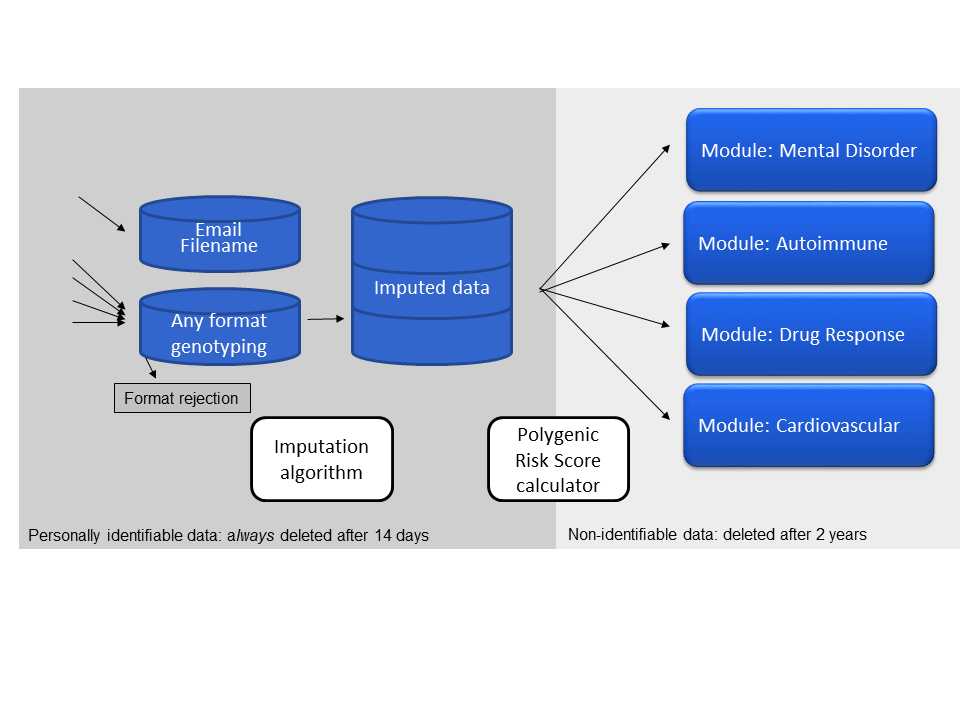
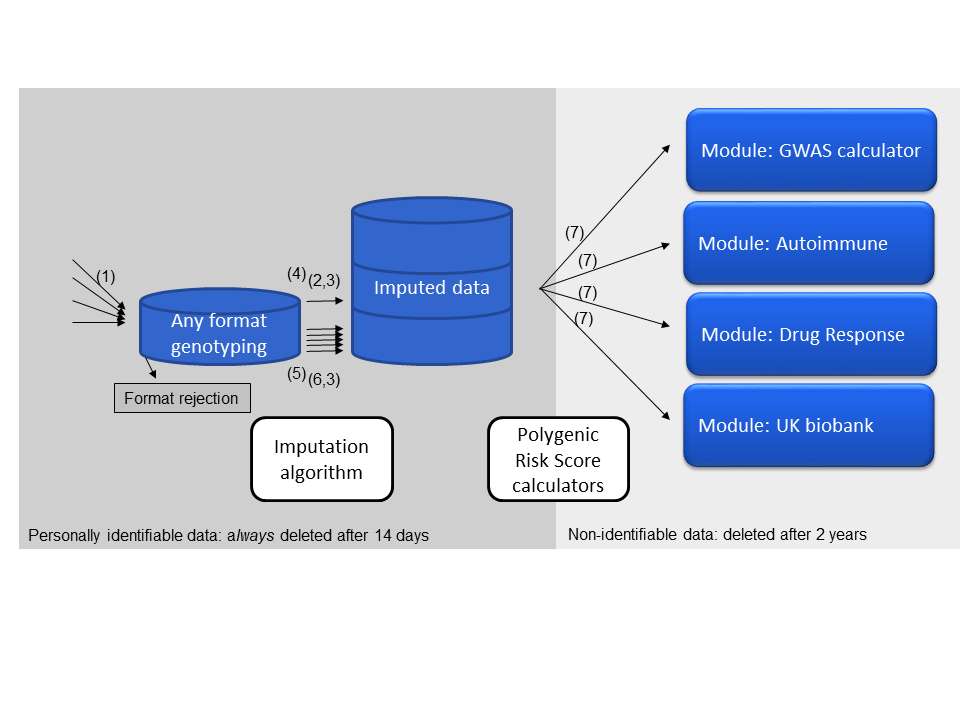
- More fine-tuning of readme.Rmd - some more link file updates

diff --git a/README.md b/README.md
@@ -31,21 +31,21 @@ Each specific module function is documented by their UI-provided description. Th
 
 **Basic count score**. Basically just counting the effect alleles. This is the most simple setup of polygenic risk scores. It is intuitive to understand - the more risk alleles, the higher the score. The main drawback is that it doesn't distinguish SNPs with large and small effects.
 
-&nbsp;&nbsp;&nbsp;&nbsp;&nbsp;&nbsp;Count-score =  Σ Effect-allele-count<sub>snp</sub> (1)
+&nbsp;&nbsp;&nbsp;&nbsp;&nbsp;&nbsp;Count-score =  Σ Effect-allele-count<sub>snp</sub> (I)
 
 
 **Weighted-score**. A score that is weighted by the effect size of each SNP. This has the added benefit of weighting SNPs with large effect sizes more than SNPs with small effect sizes. Note that _beta_ is changed for _log(OR)_ as applicable for binary traits. The only draw-back of this score type is that it is on an arbitrary scale and does little to inform about risk compared to the rest of the population.
 
-&nbsp;&nbsp;&nbsp;&nbsp;&nbsp;&nbsp;Weighted-score =  Σ Beta<sub>snp</sub> * Effect-allele-count<sub>snp</sub> (2)
+&nbsp;&nbsp;&nbsp;&nbsp;&nbsp;&nbsp;Weighted-score =  Σ Beta<sub>snp</sub> * Effect-allele-count<sub>snp</sub> (II)
 
 
 **Z-score**. A score that is given in standard-deviations above or below the average risk-score for that population. This specific implementation of the Z-score is [found here](https://github.com/lassefolkersen/impute-me/blob/5901cb626d0e50a01106d74c48540a41100974a6/functions.R#L1387-L1404). The _frequency<sub>snp</sub>_ is obtained from 1000 genomes data for the relevant super-population. _Effect-allele-count_ and _Beta_ is used as in previous scores. The _Standard-deviation<sub>population</sub>_ is calculated according to [this code](https://github.com/lassefolkersen/impute-me/blob/5901cb626d0e50a01106d74c48540a41100974a6/functions.R#L1396-L1404). In many of the modules an extra step is added where the Z-score is converted to percentage of population with lower score. This is done with the standard [pnorm](https://stat.ethz.ch/R-manual/R-devel/library/stats/html/Normal.html) function, i.e. we assume everything is normally distributed. To check the validity of this assumption, some modules have an option to compare to [real distributions](https://www.impute.me/AllDiseases/).
 
-&nbsp;&nbsp;&nbsp;&nbsp;&nbsp;&nbsp;Population-score<sub>snp</sub> = frequency<sub>snp</sub> * 2 * beta<sub>snp</sub> (3)
+&nbsp;&nbsp;&nbsp;&nbsp;&nbsp;&nbsp;Population-score<sub>snp</sub> = frequency<sub>snp</sub> * 2 * beta<sub>snp</sub> (III)
 
-&nbsp;&nbsp;&nbsp;&nbsp;&nbsp;&nbsp;Zero-centered-score =  Σ Beta<sub>snp</sub> * Effect-allele-count<sub>snp</sub> - Population-score<sub>snp</sub> (4)
+&nbsp;&nbsp;&nbsp;&nbsp;&nbsp;&nbsp;Zero-centered-score =  Σ Beta<sub>snp</sub> * Effect-allele-count<sub>snp</sub> - Population-score<sub>snp</sub> (IV)
 
-&nbsp;&nbsp;&nbsp;&nbsp;&nbsp;&nbsp;Z-score = Zero-centered-score / Standard-deviation<sub>population</sub> (5)
+&nbsp;&nbsp;&nbsp;&nbsp;&nbsp;&nbsp;Z-score = Zero-centered-score / Standard-deviation<sub>population</sub> (V)
 
 
 
@@ -57,29 +57,30 @@ When reading the code for each module, the main parts are the ui.R and a server.
 ## Part 3: Imputation algorithm description
 
 
+
 After upload of data, a central aspect of the analysis engine is the performance of an imputation-process. The purpose of this process is to 'fill in the blanks', meaning to provide educated guesses of missing SNPs. Imputation allows the analysis modules to connect to the latest research as provided by the modules. Unlike the two previous sections, it is not at all necessary to understand these aspects of the impute.me algorithm. They are provided here for reference:
 
-*prepare_23andme_genome* (a [function](https://github.com/lassefolkersen/impute-me/blob/af1bca3c0ab5d6f93ff1410bdf80881576a2075b/functions.R#L31)) which is triggered at data-submission time (not cron-job dependent). This function simply unpacks the data, copies it to the designated imputation area (~/imputations), performs a few data consistency checks and assigns an unique id to each submission. Note that although the name of this function implies 23andme-files, this only referes to the format-setup. Other formats are handled by the various in-function checks (see issue [#1](https://github.com/lassefolkersen/impute-me/issues/1)).
+(1) *prepare_23andme_genome* (a [function](https://github.com/lassefolkersen/impute-me/blob/af1bca3c0ab5d6f93ff1410bdf80881576a2075b/functions.R#L31)) which is triggered at data-submission time (not cron-job dependent). This function simply unpacks the data, copies it to the designated imputation area (~/imputations), performs a few data consistency checks and assigns an unique id to each submission. Note that although the name of this function implies 23andme-files, this only refers to the default format. Other formats are handled by the various in-function checks (see issue [#1](https://github.com/lassefolkersen/impute-me/issues/1)).
 
-*run_imputation* (a [function](https://github.com/lassefolkersen/impute-me/blob/af1bca3c0ab5d6f93ff1410bdf80881576a2075b/functions.R#L322)) is triggered by the cron-job checking for ready data in the imputation area (~/imputations). It consists of a series of calls to bash-based programs. First a shapeit call is made to phase the data correctly. Note that there is quite a lot of extra work involved in avoiding errors from single-sample-homozygote problems and such (up untill the cmd4 call). After shape-it calls, a call to impute2 is made and the end-product of this function is per-chromosome gen-files entitled "step_7_chr_xx", because they come from the seventh step of calculation. Note that there exists a similar function 'run_bulk_imputation' that performs the same process, but in multiples of ten samples. This approach economises use of computer-power, at the cost of taking more time from data-submission to finished results.
+(2) *run_imputation* (a [function](https://github.com/lassefolkersen/impute-me/blob/af1bca3c0ab5d6f93ff1410bdf80881576a2075b/functions.R#L322)) is triggered by the cron-job checking for ready data in the imputation area (~/imputations). It consists of a series of calls to bash-based programs. First a shapeit call is made to phase the data correctly. Note that there is quite a lot of extra work involved in avoiding errors from single-sample-homozygote problems and such (up untill the cmd4 call). After shape-it calls, a call to impute2 is made and the end-product of this function is per-chromosome gen-files entitled "step_7_chr_xx", because they come from the seventh step of calculation. 
 
-*summarize_imputation* (a [function](https://github.com/lassefolkersen/impute-me/blob/af1bca3c0ab5d6f93ff1410bdf80881576a2075b/functions.R#L494)) is run immediately after run_imputation, in the cron-job, and could probably be merged into this function. The goal of this function is to organize and summarize the per-chromosome gen-files: saving as 1) a gen-file with probability-estimate-containing imputation data, and 2) a '23andme'-format file in which the calls are already made. The current threshold is 0.9, per the <a href='http://www.well.ox.ac.uk/~cfreeman/software/gwas/gtool.html'>gtools</a> default setting (but it is variable per use-case - PRS for example may be robust to lower thresholds). Note that there's a lot of splitting taking place to minimize the memory footprint, which could otherwise become very large, particularly for the long chromosomes. 
+(3) *summarize_imputation* (a [function](https://github.com/lassefolkersen/impute-me/blob/af1bca3c0ab5d6f93ff1410bdf80881576a2075b/functions.R#L494)) is run immediately after run_imputation, in the cron-job. The goal of this function is to organize and summarize the per-chromosome gen-files: saving as 1) a gen-file with probability-estimate-containing imputation data, and 2) a 'simple'-format file in which the calls are already made. The current threshold is 0.9, per the <a href='http://www.well.ox.ac.uk/~cfreeman/software/gwas/gtool.html'>gtools</a> default setting (but it is variable per use-case - PRS for example may be robust to lower thresholds). The key to this function the extensive splitting that minimizes the memory footprint. This could otherwise become very large, particularly for the long chromosomes, and would prevent cheap(er) hub-to-node running. 
 
-*imputation_cron_job.R* (a [script file](https://github.com/lassefolkersen/impute-me/blob/master/imputeme/imputation_cron_job.R)). This file calls the  cron-job driven functions described above as well as the per-module export scripts. The extra code in the file is used to determine if it should run as a hub-job or a node-job; node jobs are prefered, because they the cron-job driven imputation functions are computationally expensive.
+(4) *imputation_cron_job.R* (a [script file](https://github.com/lassefolkersen/impute-me/blob/master/imputeme/imputation_cron_job.R)). This file is called as a cron-job. It checks what input-data is ready and then calls the two functions described above (2 and 3), as well as the per-module export scripts (7). The extra code in the file is used to determine if it should run as a hub-job or a node-job; node jobs are prefered, because these functions are computationally expensive. In a hub-only setup, calculations are run on the same computer as the web-site interface. In the hub+node-setup, a central hub computer stores data and shows the web-site, while a scalable number of node-computers perform all computationally heavy calculations.
 
-*bulk_imputation_cron_job.R* (a [script file](https://github.com/lassefolkersen/impute-me/blob/master/imputeme/bulk_imputation_cron_job.R)). Similar to the imputation_cron_job.R file, this calls the  cron-job driven functions described above as well as the per-module export scripts. The difference is that this fails run in the x10 bulk mode.
+(5) *bulk_imputation_cron_job.R* (a [script file](https://github.com/lassefolkersen/impute-me/blob/master/imputeme/bulk_imputation_cron_job.R)). Similar to the *imputation_cron_job.R* (4) file, this calls the  cron-job driven functions for imputation and summary. The difference with this mode is that it processes in multiples of ten samples. This economises use of computer-power, at the cost of taking more time from data-submission to finished results. 
 
-*export_script.R* (several scripts, e.g. [here](https://github.com/lassefolkersen/impute-me/blob/master/AllDiseases/export_script.R) and [here](https://github.com/lassefolkersen/impute-me/blob/master/BRCA/export_script.R)) for each module, this script contains computationally intensive calculations used for pre-calculations of derived data. For details on each script, refer to its parent module. The scripts are activated using the [run_export_script-function](https://github.com/lassefolkersen/impute-me/blob/af1bca3c0ab5d6f93ff1410bdf80881576a2075b/functions.R#L1602) (e.g. [here](https://github.com/lassefolkersen/impute-me/blob/af1bca3c0ab5d6f93ff1410bdf80881576a2075b/imputeme/imputation_cron_job.R#L159)).
+(6) *run_bulk_imputation* (a [function](https://github.com/lassefolkersen/impute-me/blob/47d54247833f79cd94f2560a507bbf7c909c5f2e/functions.R#L1812)). Similar to *run_imputation* (3), but called from the *bulk_imputation_cron_job.R* script (5). It is however, followed by the regular *summarize_imputation* (3) because there is no CPU-saving potential in merging that aspect.
+
+(7) *export_script.R* (several scripts, e.g. [here](https://github.com/lassefolkersen/impute-me/blob/master/AllDiseases/export_script.R) and [here](https://github.com/lassefolkersen/impute-me/blob/master/BRCA/export_script.R)) for each module, this script contains computationally intensive calculations used for pre-calculations of derived data. For details on each script, refer to the code in the module as well as [section 2](#part-2-module-design-description). The scripts are activated using the [run_export_script-function](https://github.com/lassefolkersen/impute-me/blob/af1bca3c0ab5d6f93ff1410bdf80881576a2075b/functions.R#L1602) (e.g. [here](https://github.com/lassefolkersen/impute-me/blob/af1bca3c0ab5d6f93ff1410bdf80881576a2075b/imputeme/imputation_cron_job.R#L159)).
 
 
-In summary this sets of functions can be illustrated with the following schematic:
+In summary these functions can be illustrated with the following schematic:
 ![Schematics](imputeme/2018-09-20_screenshot_1.png)
-
-As is shown, the following components are deleted 14 days after processing:
- * [email](https://github.com/lassefolkersen/impute-me/blob/af1bca3c0ab5d6f93ff1410bdf80881576a2075b/imputeme/deletion_cron_job.R#L36)
- * [filename](https://github.com/lassefolkersen/impute-me/blob/af1bca3c0ab5d6f93ff1410bdf80881576a2075b/imputeme/deletion_cron_job.R#L37)
+The following components are deleted 14 days after processing:
  * [input-data](https://github.com/lassefolkersen/impute-me/blob/af1bca3c0ab5d6f93ff1410bdf80881576a2075b/imputeme/deletion_cron_job.R#L70)
  * [imputed-data](https://github.com/lassefolkersen/impute-me/blob/af1bca3c0ab5d6f93ff1410bdf80881576a2075b/imputeme/deletion_cron_job.R#L68-L69)
+ * [email and filename](https://github.com/lassefolkersen/impute-me/blob/af1bca3c0ab5d6f93ff1410bdf80881576a2075b/imputeme/deletion_cron_job.R#L36-L37) as linked to genetic data (*non-linked email is saved elsewhere per terms-of-service*)
  
-Remaining data consist of all the derived data, such as diseases-gene-scores. Although this includes some genotypes, it is not considered personally traceable because these genotypes cannot be used to track people systematically, e.g. using software like [GEDmatch](https://www.gedmatch.com).
+Remaining data consist of all the derived data, such as disease-gene-scores. Although this includes some genotypes, it is not considered personally traceable because these genotypes cannot be used to track people systematically, e.g. using software like [GEDmatch](https://www.gedmatch.com).
 
